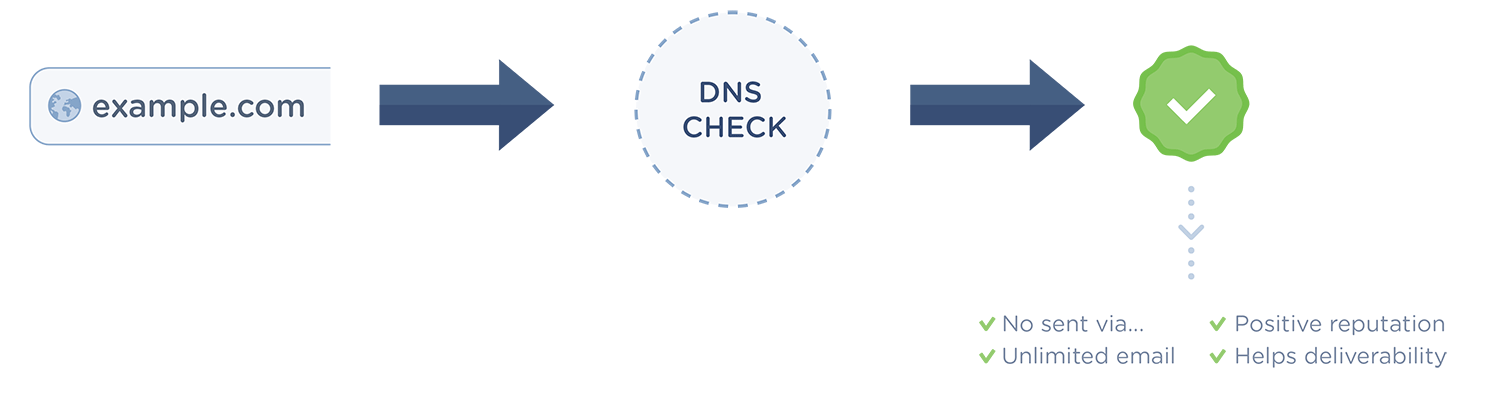
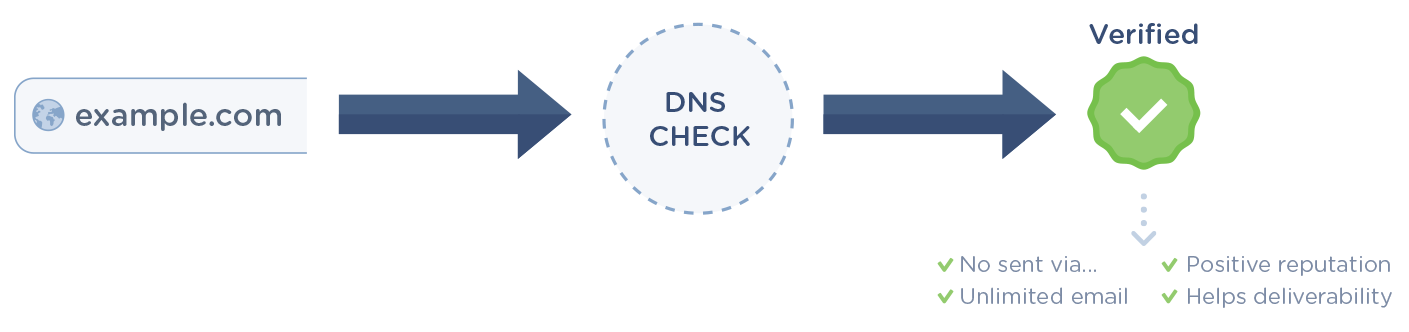
Update quick start graphics and layout

diff --git a/source/_templates/layout.html b/source/_templates/layout.html
@@ -1,6 +1,6 @@
 {% extends "basic/layout.html" %}
 {% if corpsite_hostname == ""  %}
-  {% set corpsite_hostname = "www.mailgun.com" %}
+  {% set corpsite_hostname = "127.0.0.1:5000" %}
 {% endif %}
 {% set css_url = "http://" + corpsite_hostname + "/static/css/main.css" %}
 {%- block doctype -%}
@@ -168,9 +168,11 @@ height="0" width="0" style="display:none;visibility:hidden"></iframe></noscript>
       {%- endif %}
       {%- endblock %}
       {%- block sidebartoc %}
-      <ul><li class="toctree-l1"><a href="{{ pathto(master_doc) }}">{{ _('Main Page') }}</a></li></ul>
+      <!-- <ul><li class="toctree-l1"><a href="{{ pathto(master_doc) }}">{{ _('Main Page') }}</a></li></ul> -->
           {%- if "FAQ" in title %}
               {{ toctree(maxdepth=1) }}
+          {%- elif "Quickstart" in title %}
+              {{ toctree(maxdepth=2) }}
           {% elif "Reference" in title %}
               {{ toctree(maxdepth=2) }}
           {% else %}
@@ -203,13 +205,13 @@ height="0" width="0" style="display:none;visibility:hidden"></iframe></noscript>
         {%- endif %}{% endif %}
         </div>
       <div class="footer">
-        <p><a href="https://www.mailgun.com/signup" class="btn-primary">Try Mailgun now</a></p>
+        <p><a href="https://www.mailgun.com/signup" class="btn-primary">Start sending email from your app</a></p>
       {%- if last_updated %}
         {% trans last_updated=last_updated|e %}Last updated on {{ last_updated }}.{% endtrans %}
       {%- endif %}
       {%- if show_sphinx %}
         {% trans sphinx_version=sphinx_version|e %}
-             <P>Docs created using <a href="http://sphinx.pocoo.org/">Sphinx</a> {{ sphinx_version }}.</P>
+             <!-- <P>Docs created using <a href="http://sphinx.pocoo.org/">Sphinx</a> {{ sphinx_version }}.</P> -->
         {% endtrans %}
       {%- endif %}
       </div>
@@ -220,23 +222,7 @@ height="0" width="0" style="display:none;visibility:hidden"></iframe></noscript>
 
     </div> <!-- /content -->
   </section> <!-- /container -->
-</div> <!-- /body -->
-
-<footer>
-    <div class="container">
-        <nav class="footer-nav">
-            <a href="http://www.mailgun.com/team">Team</a>
-            <a href="http://www.mailgun.com/terms">Terms of service</a>
-            <a href="http://www.mailgun.com/privacy">Privacy policy</a>
-            <a href="http://twitter.com/Mail_Gun">Twitter</a>
-            <a href="http://www.mailgun.com/contact">Contact</a>
-            <a href="http://documentation.mailgun.com/faqs.html">FAQ</a>
-            <a href="http://blog.mailgun.com">Blog</a>
-        </nav>
-        <p>Made in San Francisco. Powered by <span class="img-rs"></span></p>
-        <span class="img-map"></span>
-    </div>
-</footer>
+</div> <!-- /body --> 
 
     <script type="text/javascript" charset="utf-8" src="{{ pathto('_static/toc.js', 1) }}"></script>
     <script type="text/javascript" charset="utf-8" src="{{ pathto('_static/jquery.debounce.min.js', 1) }}"></script>

diff --git a/source/quickstart.rst b/source/quickstart.rst
@@ -1,43 +1,43 @@
 .. _quickstart:
 
-Quickstart
+Quickstart Guide
 ==========
 
 .. figure::  _static/img/quickstart/sending.png
-   :align: left
-   :width: 700 px
+   :align: center
+   :width: 800 px
 
 SMTP or API?
 ---------------------
 
-It’s really up to you. Whatever you find easier is fine with us. Here's something to consider:
+It’s up to you, whatever you find easier is fine with us. Here's something to consider:
 
 .. raw:: html
 
-  <table border="1" class="docutils">
-  <thead valign="bottom">
-    <tr class="row-odd">
+  <table class="docutils tbl-smtpapi">
+  <thead>
+    <tr>
       <th class="head">SMTP</th>
       <th class="head">API</th>
     </tr>
   </thead>
-  <tbody valign="top">
-    <tr class="row-even">
-      <td><i class="icon-ok"></i>Flexible with existing apps</td>
-      <td><i class="icon-ok"></i>Faster (x3)</td>
+  <tbody>
+    <tr>
+      <td><i class="icon-ok"></i> Flexible with existing apps</td>
+      <td><i class="icon-ok"></i> Faster (x3)</td>
     </tr>
-    <tr class="row-odd">
-      <td><i class="icon-ok"></i>Open protocol</td>
-      <td><i class="icon-ok"></i>Assembly (don't worry about MIME)</td>
+    <tr>
+      <td><i class="icon-ok"></i> Open protocol</td>
+      <td><i class="icon-ok"></i> Assembly (don't worry about MIME)</td>
     </tr>
-    <tr class="row-even">
+    <tr>
       <td></td>
-      <td><i class="icon-ok"></i>Scales better (Batch sending)</td>
+      <td><i class="icon-ok"></i> Scales better (Batch sending)</td>
     </tr>
   </tbody>
   </table>
 
-   In short, SMTP is an open and established protocol with large ecosystem, while Mailgun API is better long term performance and maintenance wise.
+In short, SMTP is an open and established protocol with large ecosystem, while Mailgun API is better long term performance and maintenance wise.
 
 * `Send via API`_
 * `Send via SMTP`_
@@ -51,11 +51,11 @@ Run this:
 
 What's actually happening:
 
-* Mailgun assembled a MIME message
-* Added the log entries to our full text search index
-* Delivered the email
+* Mailgun assembles a MIME message.
+* Added the log entries to our full text search index.
+* Delivered the email.
 
-What's next? Aad DNS records to `Verify Your Domain`_.
+What's next? Add DNS records to `verify your domain`_.
 
 
 Send via SMTP
@@ -65,50 +65,51 @@ Run this:
 
 .. include:: samples/smtp-send-simple-message.rst
 
-What's next? Aad DNS records to `Verify Your Domain`_.
+What's next? Add DNS records to `verify your domain`_.
 
 
 Verify Your Domain
 ------------------
 
-Add a domain you own and verify it by setting up the SPF and DKIM records we provide at your DNS provider.
+Add a domain you own and verify it by setting up the DNS records we provide (known as SPF and DKIM) at your DNS provider.
 
 .. figure::  _static/img/quickstart/verify.png
    :align: left
-   :width: 700 px
+   :width: 800 px
 
-.. note:: Here's why you **absolutely** need to verify your domain:
+Why you **need to verify** your domain:
 
-* You prove that you are an authorized sender for the domain.
-* Verified domains are not subject to a sending limit of 300 emails per day.
-* No more "sent via Mailgun.org" message in your emails.
-* Establishing a positive email reputation for your own domain. 
-* Mailgun is less suspicious of traffic that is being sent on verified domains and so using one reduces the likelihood of being disabled. 
+* To prove that you are an **authorized sender** for the domain.
+* Verified domains are not subject to a **sending limit of 300** emails per day.
+* No more **"sent via Mailgun.org"** message in your emails.
+* Establishing a **positive email reputation** for your own domain. 
+* Mailgun is **less suspicious** of traffic that is being sent on verified domains and so using one reduces the likelihood of being disabled. 
 
 
 How to verify your domain
 *************************
 
-1. Add a domain or subdomain you own in the Domains tab of your control panel.  
-2. Next, add the two TXT DNS records found in your control panel at your DNS provider. You'll find these DNS records when you click on a domain under the ``Domains`` tab on the Mailgun control panel. There are two types of DNS records, ``Sending`` and ``Receiving`` records.   The two TXT records needed to verify your domain are listed under the ``Sending`` section.
-3. Though not required to verify your domain, if you want Mailgun to track clicks and opens you can also add the CNAME record. MX records should also be added unless you already have MX records for your domain pointed at another email service provider.  
+1. Add your domain or subdomain.
+2. Add the **two TXT DNS records** provided at your DNS provider.
+3. If you want Mailgun to **track clicks and opens** you can also add the **CNAME** record.
+4. MX records should also be added, **unless you already have MX records** for your domain pointed at another email service provider (e.g. Gmail).
 
-Once you've added the two TXT records and they've propagated, your domain will be verified.  In some instances, we may need additional information to verify your domain.  If this is the case, we will contact you to resolve the issue.
+Once you've added the records and they've propagated, your domain will be verified.
 
 .. note:: It can take 24-48 hours for DNS changes to propagate.
 
 If you will be creating a lot of domains, Mailgun offers an API endpoint for adding/editing/removing domains from your account. See the :ref:`api-domains` endpoint for more information.
 
-Sending DNS Records
+Sending & Tracking DNS Records
 *******************
 
 .. figure::  _static/img/quickstart/spf.png
    :align: left
-   :width: 700 px
+   :width: 600 px
 
-* SPF: Sending server IP validation. Used by majority of inbound mail servers. `SPF Information`_.
-* DKIM: Like SPF, but uses cryptographic methods for validation. Supported by many inbound mail servers. `DKIM Information`_ 
-* CNAME: Used for tracking opens and clicks, when enabled. :ref:`tracking-messages`
+* **SPF**: Sending server IP validation. Used by majority of inbound mail servers. `SPF Information`_.
+* **DKIM**: Like SPF, but uses cryptographic methods for validation. Supported by many inbound mail servers. `DKIM Information`_ 
+* **CNAME**: Used for tracking opens and clicks, when enabled. :ref:`tracking-messages`
 
 ========= =========================================================== ==================== 
 Type      Value                                                       Purpose    
@@ -126,10 +127,10 @@ Receiving DNS Records
 
 .. figure::  _static/img/quickstart/mx.png
    :align: left
-   :width: 700 px
+   :width: 400 px
 
 .. warning:: Do not configure Receiving MX DNS records if you already have another provider handling inbound 
-		     mail delivery.
+		     mail delivery (e.g. Gmail).
 
 Mail server for handling inbound messages.  `MX Information`_
 
